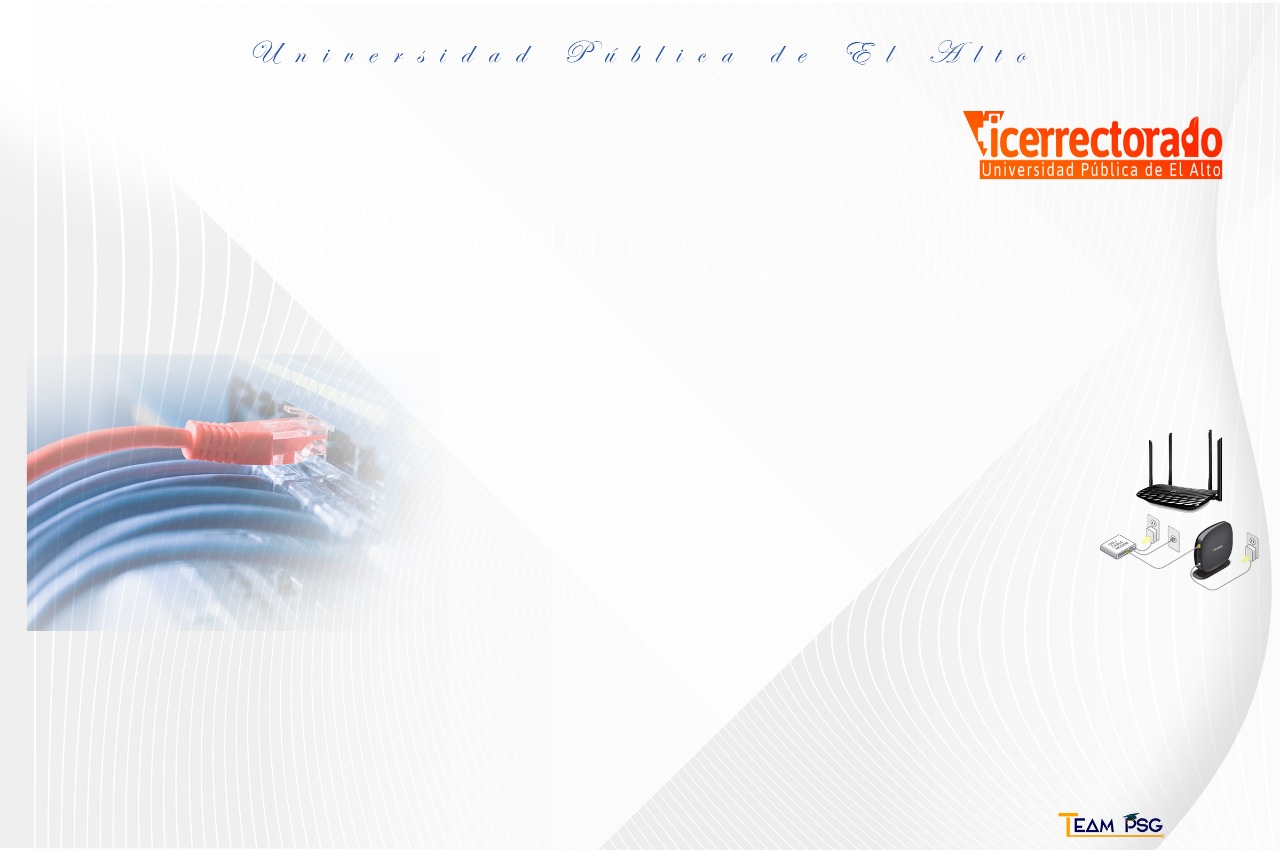
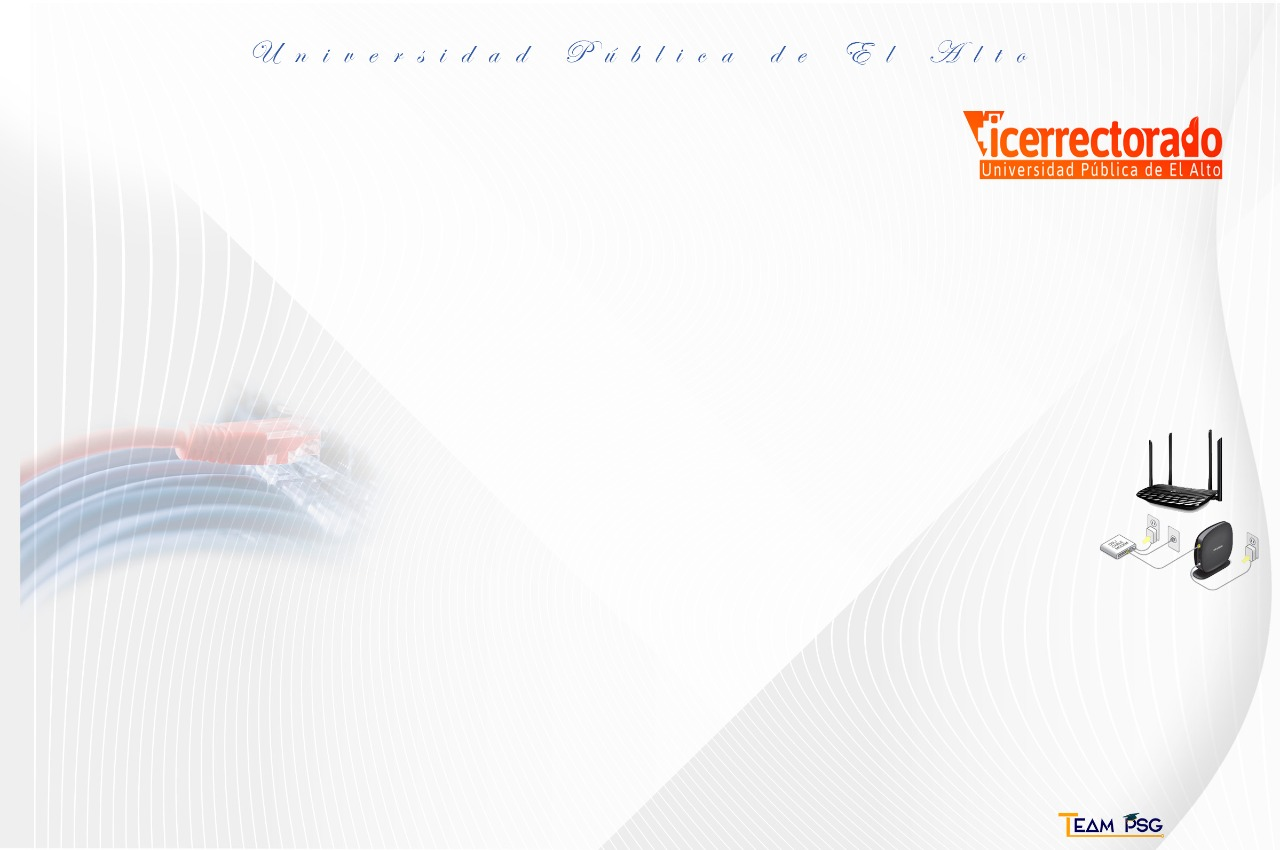
Imprimir certificados

Changed region(s): [[0.0, 0.4282, 0.3125, 0.7647]]

diff --git a/application/controllers/Reportes/ImprimirCertificado.php b/application/controllers/Reportes/ImprimirCertificado.php
@@ -58,17 +58,17 @@ class ImprimirCertificado extends Fpdf_psg
                 $this->SetXY($datos_curso[0]->posx_tipo_participacion, $datos_curso[0]->posy_tipo_participacion);
                 $this->AddFont('OpenSans-SemiBold', '', 'OpenSans-SemiBold.php');
                 $this->SetFont('OpenSans-SemiBold', '', $datos_curso[0]->tamano_texto);
-                $this->Cell(190, 11, utf8_decode("Por haber participado en calidad de EXPOSITOR del curso especializado de:"), 0, 1, '');
+                $this->Cell(190, 11, utf8_decode("Por haber participado en calidad de EXPOSITOR del curso práctico de:"), 0, 1, '');
             } elseif ($est['tipo_participacion'] == "ORGANIZADOR") {
                 $this->SetXY($datos_curso[0]->posx_tipo_participacion, $datos_curso[0]->posy_tipo_participacion);
                 $this->AddFont('OpenSans-SemiBold', '', 'OpenSans-SemiBold.php');
                 $this->SetFont('OpenSans-SemiBold', '', $datos_curso[0]->tamano_texto);
-                $this->Cell(190, 11, utf8_decode("Por haber participado en calidad de ORGANIZADOR del curso especializado de:"), 0, 1, '');
+                $this->Cell(190, 11, utf8_decode("Por haber participado en calidad de ORGANIZADOR del curso práctico de:"), 0, 1, '');
             } else {
                 $this->SetXY($datos_curso[0]->posx_tipo_participacion, $datos_curso[0]->posy_tipo_participacion);
                 $this->AddFont('OpenSans-SemiBold', '', 'OpenSans-SemiBold.php');
                 $this->SetFont('OpenSans-SemiBold', '', $datos_curso[0]->tamano_texto);
-                $this->Cell(190, 11, utf8_decode("Por haber participado  del curso especializado de:"), 0, 1, '');
+                $this->Cell(190, 11, utf8_decode("Por haber participado  del curso práctico de:"), 0, 1, '');
             }
 
             // titulo del curso
@@ -217,17 +217,17 @@ class ImprimirCertificado extends Fpdf_psg
                 $this->SetXY($datos_curso[0]->posx_tipo_participacion, $datos_curso[0]->posy_tipo_participacion);
                 $this->AddFont('OpenSans-SemiBold', '', 'OpenSans-SemiBold.php');
                 $this->SetFont('OpenSans-SemiBold', '', $datos_curso[0]->tamano_texto);
-                $this->Cell(190, 11, utf8_decode("Por haber participado en calidad de EXPOSITOR del curso especializado de:"), 0, 1, '');
+                $this->Cell(190, 11, utf8_decode("Por haber participado en calidad de EXPOSITOR del curso práctico de:"), 0, 1, '');
             } elseif ($est['tipo_participacion'] == "ORGANIZADOR") {
                 $this->SetXY($datos_curso[0]->posx_tipo_participacion, $datos_curso[0]->posy_tipo_participacion);
                 $this->AddFont('OpenSans-SemiBold', '', 'OpenSans-SemiBold.php');
                 $this->SetFont('OpenSans-SemiBold', '', $datos_curso[0]->tamano_texto);
-                $this->Cell(190, 11, utf8_decode("Por haber participado en calidad de ORGANIZADOR del curso especializado de:"), 0, 1, '');
+                $this->Cell(190, 11, utf8_decode("Por haber participado en calidad de ORGANIZADOR del curso práctico de:"), 0, 1, '');
             } else {
                 $this->SetXY($datos_curso[0]->posx_tipo_participacion, $datos_curso[0]->posy_tipo_participacion);
                 $this->AddFont('OpenSans-SemiBold', '', 'OpenSans-SemiBold.php');
                 $this->SetFont('OpenSans-SemiBold', '', $datos_curso[0]->tamano_texto);
-                $this->Cell(190, 11, utf8_decode("Por haber participado  del curso especializado de:"), 0, 1, '');
+                $this->Cell(190, 11, utf8_decode("Por haber participado  del curso práctico de:"), 0, 1, '');
             }
 
             // titulo del curso
@@ -351,13 +351,13 @@ class ImprimirCertificado extends Fpdf_psg
                 $this->Cell(186, 11, utf8_decode($this->verificar_aprobacion($datos_curso[0]->nota_aprobacion, $est['calificacion_final'])), 0, 1, '');
             } elseif ($est['tipo_participacion'] == "EXPOSITOR") {
                 $this->SetXY($datos_curso[0]->posx_tipo_participacion, $datos_curso[0]->posy_tipo_participacion);
-                $this->Cell(186, 11, utf8_decode("Por haber participado en calidad de EXPOSITOR del curso especializado de:"), 0, 1, '');
+                $this->Cell(186, 11, utf8_decode("Por haber participado en calidad de EXPOSITOR del curso práctico de:"), 0, 1, '');
             } elseif ($est['tipo_participacion'] == "ORGANIZADOR") {
                 $this->SetXY($datos_curso[0]->posx_tipo_participacion, $datos_curso[0]->posy_tipo_participacion);
-                $this->Cell(186, 11, utf8_decode("Por haber participado en calidad de ORGANIZADOR del curso especializado de:"), 0, 1, '');
+                $this->Cell(186, 11, utf8_decode("Por haber participado en calidad de ORGANIZADOR del curso práctico de:"), 0, 1, '');
             } else {
                 $this->SetXY($datos_curso[0]->posx_tipo_participacion, $datos_curso[0]->posy_tipo_participacion);
-                $this->Cell(186, 11, utf8_decode("Por haber participado  del curso especializado de:"), 0, 1, '');
+                $this->Cell(186, 11, utf8_decode("Por haber participado  del curso práctico de:"), 0, 1, '');
             }
 
             // titulo del curso
@@ -443,7 +443,7 @@ class ImprimirCertificado extends Fpdf_psg
             if ($datos_curso[0]->imagen_curso != "" || $datos_curso[0]->imagen_curso != NULL) {
                 $this->Image($datos_curso[0]->imagen_curso, 0, 0, 279.5, 215.9);
             }
-            $this->Image("assets/img/img_send_certificate/internet.jpeg", 0, 0, 279.7, 215.9);
+            $this->Image("assets/img/img_send_certificate/after-fondo.jpg", 0, 0, 279.7, 215.9);
 
             $this->AddFont('AusterRounded-Light', '', 'AusterRounded-Light.php');
             $this->SetFont('AusterRounded-Light', '', 17);
@@ -480,13 +480,13 @@ class ImprimirCertificado extends Fpdf_psg
                 $this->Cell(193.4, 11, utf8_decode($this->verificar_aprobacion($datos_curso[0]->nota_aprobacion, $est['calificacion_final'])), 0, 1, '');
             } elseif ($est['tipo_participacion'] == "EXPOSITOR") {
                 $this->SetXY($datos_curso[0]->posx_tipo_participacion, $datos_curso[0]->posy_tipo_participacion);
-                $this->Cell(193.4, 11, utf8_decode("Por haber participado en calidad de EXPOSITOR del curso especializado de:"), 0, 1, '');
+                $this->Cell(193.4, 11, utf8_decode("Por haber participado en calidad de EXPOSITOR del curso práctico de:"), 0, 1, '');
             } elseif ($est['tipo_participacion'] == "ORGANIZADOR") {
                 $this->SetXY($datos_curso[0]->posx_tipo_participacion, $datos_curso[0]->posy_tipo_participacion);
-                $this->Cell(193.4, 11, utf8_decode("Por haber participado en calidad de ORGANIZADOR del curso especializado de:"), 0, 1, '');
+                $this->Cell(193.4, 11, utf8_decode("Por haber participado en calidad de ORGANIZADOR del curso práctico de:"), 0, 1, '');
             } else {
                 $this->SetXY($datos_curso[0]->posx_tipo_participacion, $datos_curso[0]->posy_tipo_participacion);
-                $this->Cell(193.4, 11, utf8_decode("Por haber participado  del curso especializado de:"), 0, 1, '');
+                $this->Cell(193.4, 11, utf8_decode("Por haber participado  del curso práctico de:"), 0, 1, '');
             }
 
             // titulo del curso
@@ -654,7 +654,7 @@ class ImprimirCertificado extends Fpdf_psg
             if ($datos_curso[0]->imagen_curso != "" || $datos_curso[0]->imagen_curso != NULL) {
                 $this->Image($datos_curso[0]->imagen_curso, 0, 0, 279.5, 215.9);
             }
-            $this->Image("assets/img/img_send_certificate/internet.jpeg", 0, 0, 279.7, 215.9);
+            $this->Image("assets/img/img_send_certificate/after-fondo.jpg", 0, 0, 279.7, 215.9);
 
             $this->AddFont('AusterRounded-Light', '', 'AusterRounded-Light.php');
             $this->SetFont('AusterRounded-Light', '', 17);

diff --git a/application/views/correo/send_certificate.php b/application/views/correo/send_certificate.php
@@ -993,7 +993,7 @@
                                                                                  <tr>
                                                                                     <td width="100%" style="line-height: 1px;">
                                                                                        <a href="https://cursosposgrado.upea.bo/" style="text-decoration: none;">
-                                                                                          <img mc:edit="42" src="<?= base_url('assets/img/img_send_certificate/autocad.jpeg') ?>" alt="" border="0" width="100%" height="auto" class="hover" />
+                                                                                          <img mc:edit="42" src="<?= base_url('assets/img/img_send_certificate/autocad3d.jpeg') ?>" alt="" border="0" width="100%" height="auto" class="hover" />
                                                                                        </a>
                                                                                     </td>
                                                                                  </tr>
@@ -1002,7 +1002,7 @@
                                                                                  </tr>
                                                                                  <tr>
                                                                                     <td width="100%" style="text-align: justify; font-size: 12px; padding: 0px 10px; color: #797979; font-family: Helvetica, Arial, sans-serif, 'Open Sans'; line-height: 22px; vertical-align: top; font-weight: 400;" class="opensans" mc:edit="44">
-                                                                                       <?= utf8_decode(' CAPACÍTATE EN EL MANEJO DE AUTOCAD, DONDE DESARROLLARAS TUS HABILIDADES, DESTREZAS Y LA CAPACIDAD DE INTERACTUAR DE MANERA CORRECTA CON LA INTERFAZ DEL SOFTWARE.') ?>
+                                                                                       <?= utf8_decode('EN ESTE CURSO APRENDERÁS CONCEPTOS FUNDAMENTALES DE AUTOCAD EN 3D, SÓLIDOS, CÁMARAS Y ESTILOS VISUALES. TAMBIÉN COMO REALIZAR RENDER, BACKGROUND E ILUMINACION, ASÍ COMO UNA INTRODUCCIÓN A 3D MAX.') ?>
                                                                                     </td>
                                                                                  </tr>
                                                                                  <tr>
@@ -1031,7 +1031,7 @@
                                                                                  <tr>
                                                                                     <td width="100%" style="line-height: 1px;">
                                                                                        <a href="https://cursosposgrado.upea.bo/" style="text-decoration: none;">
-                                                                                          <img mc:edit="42" src="<?= base_url('assets/img/img_send_certificate/photoshop-min.png') ?>" alt="" border="0" width="100%" height="auto" class="hover" />
+                                                                                          <img mc:edit="42" src="<?= base_url('assets/img/img_send_certificate/herramientas.jpg') ?>" alt="" border="0" width="100%" height="auto" class="hover" />
                                                                                        </a>
                                                                                     </td>
                                                                                  </tr>
@@ -1040,7 +1040,7 @@
                                                                                  </tr>
                                                                                  <tr>
                                                                                     <td width="100%" style="text-align: justify; font-size: 12px; padding: 0px 10px; color: #797979; font-family: Helvetica, Arial, sans-serif, 'Open Sans'; line-height: 22px; vertical-align: top; font-weight: 400;" class="opensans" mc:edit="44">
-                                                                                       <?= utf8_decode('INSCRÍBETE YA. CON EL CURSO PODRÁS REALIZAR EL RETOQUE Y FOTOMONTAJE A TUS FOTOGRAFÍAS , TU IMAGINACIÓN NO TENDRÁ LÍMITE, APRENDERÁS A CREAR TUS PROPIAS IMÁGENES. NO PIERDAS ESTA OPORTUNIDAD DE APRENDER CON LOS MEJORES. ') ?>
+                                                                                       <?= utf8_decode(" EN ESTE CURSO TE CAPACITARÁS EN LA ADMINISTRACIÓN Y GESTIÓN DE LAS HERRAMIENTAS TIC'S MÁS USADAS EN LA EDUCACIÓN VIRTUAL, COMO SER CLASSROOM, ZOOM, MEET, MOODLE, GOOGLE DRIVE, GOOGLE FORMULARIOS Y OBS STUDIO.") ?>
                                                                                     </td>
                                                                                  </tr>
                                                                                  <tr>
@@ -1069,7 +1069,7 @@
                                                                                  <tr>
                                                                                     <td width="100%" style="line-height: 1px;">
                                                                                        <a href="https://cursosposgrado.upea.bo/" style="text-decoration: none;">
-                                                                                          <img mc:edit="42" src="<?= base_url('assets/img/img_send_certificate/autocad3d.jpeg') ?>" alt="" border="0" width="100%" height="auto" class="hover" />
+                                                                                          <img mc:edit="42" src="<?= base_url('assets/img/img_send_certificate/autocad.jpeg') ?>" alt="" border="0" width="100%" height="auto" class="hover" />
                                                                                        </a>
                                                                                     </td>
                                                                                  </tr>
@@ -1078,7 +1078,7 @@
                                                                                  </tr>
                                                                                  <tr>
                                                                                     <td width="100%" style="text-align: justify; font-size: 12px; padding: 0px 10px; color: #797979; font-family: Helvetica, Arial, sans-serif, 'Open Sans'; line-height: 22px; vertical-align: top; font-weight: 400;" class="opensans" mc:edit="44">
-                                                                                       <?= utf8_decode('EN ESTE CURSO APRENDERÁS CONCEPTOS FUNDAMENTALES DE AUTOCAD EN 3D, SÓLIDOS, CÁMARAS Y ESTILOS VISUALES. TAMBIÉN COMO REALIZAR RENDER, BACKGROUND E ILUMINACION, ASÍ COMO UNA INTRODUCCIÓN A 3D MAX.') ?>
+                                                                                       <?= utf8_decode('CAPACÍTATE EN EL MANEJO DE AUTOCAD, DONDE DESARROLLARAS TUS HABILIDADES, DESTREZAS Y LA CAPACIDAD DE INTERACTUAR DE MANERA CORRECTA CON LA INTERFAZ DEL SOFTWARE.') ?>
                                                                                     </td>
                                                                                  </tr>
                                                                                  <tr>

diff --git a/application/models/Cursos_model.php b/application/models/Cursos_model.php
@@ -267,7 +267,7 @@ class Cursos_model extends PSG_Model
 			ic.certificacion_unica,
 			ic.estado_inscripcion_curso
 			from mdl_inscripcion_curso ic inner join mdl_user u on ic.id_user_moodle = u.id
-			inner join mdl_course c on ic.id_course_moodle = c.id AND c.id = '$id'";
+			inner join mdl_course c on ic.id_course_moodle = c.id AND c.id = '$id' ORDER BY u.firstname, u.lastname";
 			$query = $this->db->query($sql);
 			if ($query->num_rows() > 0) {
 				return ($query->result());

diff --git a/application/config/routes.php b/application/config/routes.php
@@ -74,3 +74,5 @@ $route['inscripcion-photoshop-retoque'] = 'invitacion/video_informaciones/11';
 $route['inscripcion-excel'] = 'invitacion/video_informaciones/12';
 $route['inscripcion-autocad-2d'] = 'invitacion/video_informaciones/13';
 $route['inscripcion-autocad-3d'] = 'invitacion/video_informaciones/14';
+$route['inscripcion-routers'] = 'invitacion/video_informaciones/15';
+$route['inscripcion-computacion'] = 'invitacion/video_informaciones/16';
